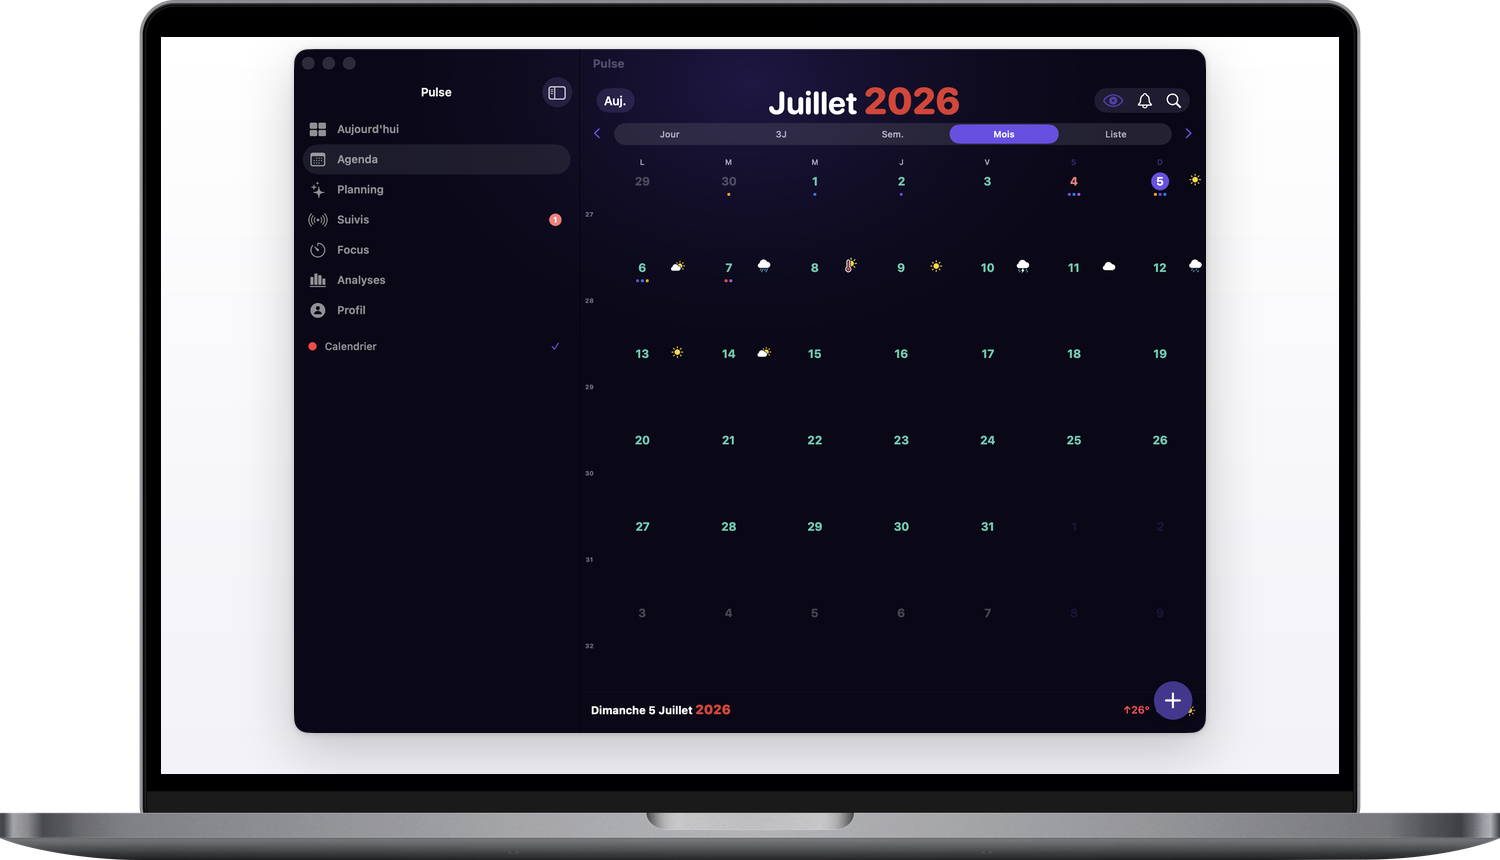
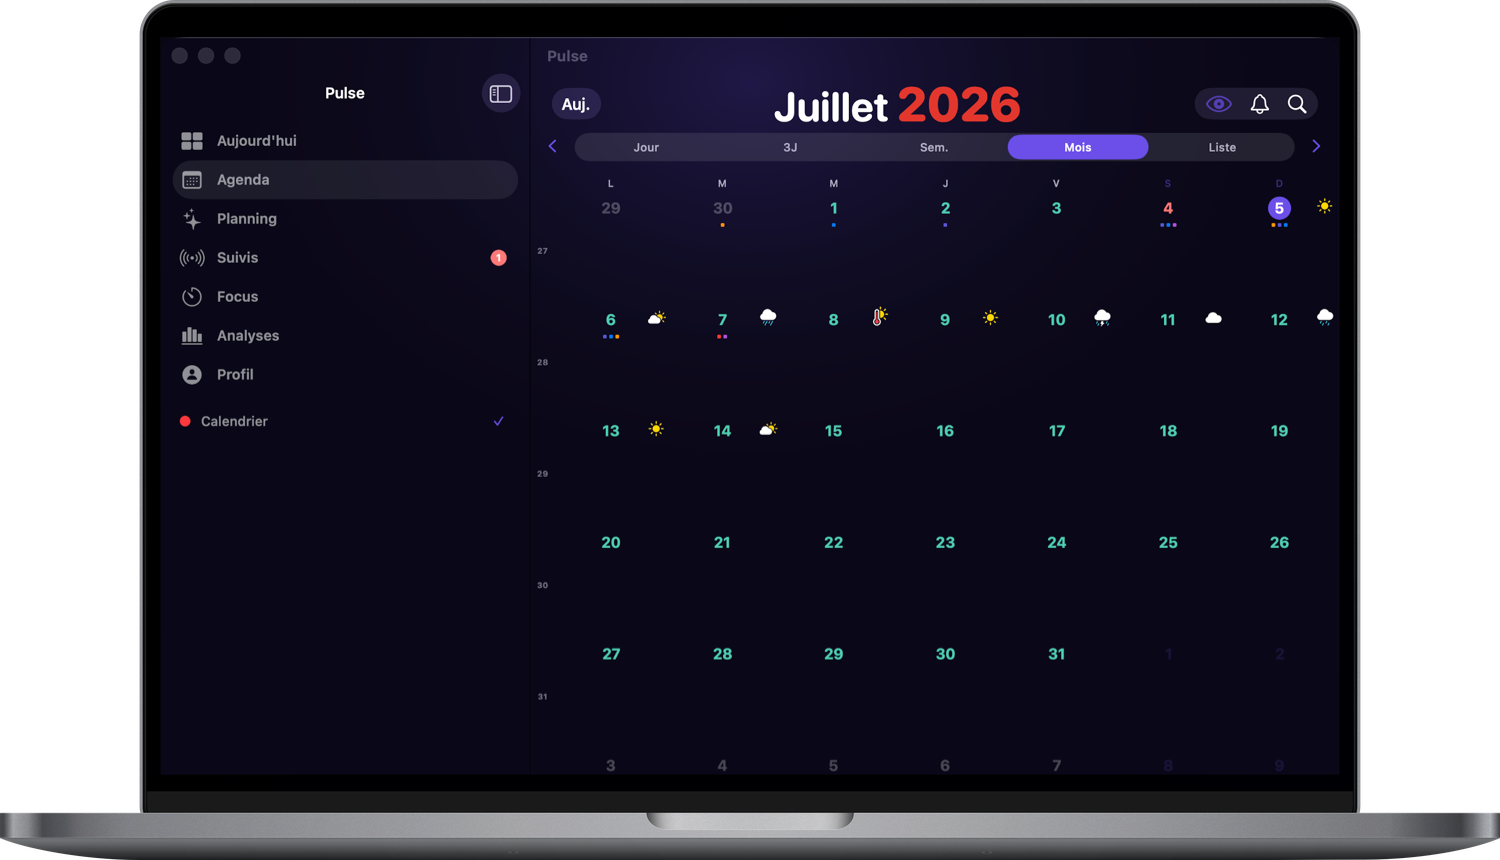
Site : iPhone Duo disponible, calendrier du Mac en plein écran
- Plateformes : iPhone Duo passe de « Dès le 23 octobre » à « Disponible ».
- MacBook : la capture du Mois remplit tout l'écran (plus de fond blanc autour de
  la fenêtre), dans les 9 jeux de langue. En PNG (ImageIO n'écrit pas le WebP) :
  screens-i18n.js bascule l'image du Mac sur .png (MACV 5), iPad et iPhone restent en WebP.

diff --git a/shared/screens-i18n.js b/shared/screens-i18n.js
@@ -8,7 +8,8 @@
 (function () {
   var LANGS = { fr:1, de:1, es:1, ja:1, ko:1, ar:1, ru:1, "zh-Hans":1, "en-US":1 }; // langues avec jeu localisé (en-US = captures °F, repli racine)
   var V = 11;  // version de cache des captures téléphone (WebP)
-  var DV = 4;  // version de cache des images device (macbook-device / ipad-device) — v4 : WebP transparents
+  var DV = 4;  // version de cache des images device (ipad-device / iphone-device) — v4 : WebP transparents
+  var MACV = 5; // macbook-device en PNG (21/11/2026) : le calendrier remplit tout l'écran, plus de fond blanc
   var DUOV = 1; // version de cache de duo-device (iPhone Duo déplié)
 
   function curLang() {
@@ -17,15 +18,16 @@
   }
 
   // swap générique : list = NodeList d'<img>, re = regex capturant le <nom>, ver = version cache
-  function swapList(list, re, ver, lang) {
+  function swapList(list, re, ver, lang, ext) {
+    ext = ext || "webp";
     for (var i = 0; i < list.length; i++) {
       var img = list[i];
       var m = (img.getAttribute("src") || "").match(re);
       if (!m) continue;
       var name = m[1];
-      var root = "/assets/screens/" + name + ".webp?v=" + ver;
+      var root = "/assets/screens/" + name + "." + ext + "?v=" + ver;
       var useLang = !!LANGS[lang] && img.getAttribute("data-scr-fb") !== "1";
-      var want = useLang ? ("/assets/screens/" + lang + "/" + name + ".webp?v=" + ver) : root;
+      var want = useLang ? ("/assets/screens/" + lang + "/" + name + "." + ext + "?v=" + ver) : root;
       if (useLang) {
         (function (im, rt) {                       // repli anglais une fois si la loc échoue
           im.onerror = function () {
@@ -42,8 +44,10 @@
     var lang = curLang();
     swapList(document.querySelectorAll("img.screen-photo"),
              /screens\/(?:[a-zA-Z-]+\/)?([a-z]+)\.webp/,V, lang);
-    swapList(document.querySelectorAll("img.dev-mac, img.dev-ipad, img.dev-iphone"),
-             /screens\/(?:[a-zA-Z-]+\/)?((?:macbook|ipad|iphone)-device)\.webp/,DV, lang);
+    swapList(document.querySelectorAll("img.dev-ipad, img.dev-iphone"),
+             /screens\/(?:[a-zA-Z-]+\/)?((?:ipad|iphone)-device)\.webp/,DV, lang);
+    swapList(document.querySelectorAll("img.dev-mac"),                 // MacBook : PNG plein écran
+             /screens\/(?:[a-zA-Z-]+\/)?(macbook-device)\.(?:webp|png)/, MACV, lang, "png");
     swapList(document.querySelectorAll("img.dev-duo"),            // iPhone Duo (10/2026)
              /screens\/(?:[a-zA-Z-]+\/)?(duo-device)\.webp/, DUOV, lang);
   }

diff --git a/index.html b/index.html
@@ -186,7 +186,7 @@
 <!-- ===== i18n : traduction runtime + sélecteur de langue (drapeaux) ===== -->
 <script defer src="shared/i18n-data.js?v=14"></script>
 <script defer src="shared/i18n.js?v=5"></script>
-<script defer src="shared/screens-i18n.js?v=8"></script>
+<script defer src="shared/screens-i18n.js?v=9"></script>
 </head>
 <body>
 
@@ -287,7 +287,7 @@
     <div class="device-glow"></div>
     <img class="dev-duo" src="assets/screens/duo-device.webp?v=1" alt="PulseCalendar sur iPhone Duo déplié, vue Semaine" loading="lazy" width="1200" height="860">
     <img class="dev-iphone" src="assets/screens/iphone-device.webp?v=4" alt="PulseCalendar sur iPhone, écran Suivi" loading="lazy" width="600" height="1246">
-    <img class="dev-mac" src="assets/screens/macbook-device.webp?v=4" alt="PulseCalendar sur MacBook Pro — vue Mois" loading="lazy" width="1500" height="860">
+    <img class="dev-mac" src="assets/screens/macbook-device.png?v=5" alt="PulseCalendar sur MacBook Pro — vue Mois" loading="lazy" width="1500" height="860">
     <img class="dev-ipad" src="assets/screens/ipad-device.webp?v=4" alt="PulseCalendar sur iPad Pro — Aujourd'hui" loading="lazy" width="760" height="992">
     <img class="dev-watch" src="assets/screens/watch-device.webp?v=2" alt="PulseCalendar sur Apple Watch Ultra — vue Mois" loading="lazy" width="600" height="960">
   </div>
@@ -304,7 +304,7 @@
       <div class="platform-icon" aria-hidden="true">
         <svg viewBox="0 0 24 24" fill="none" stroke="currentColor" stroke-width="1.5" stroke-linecap="round" stroke-linejoin="round"><rect x="2.5" y="5" width="19" height="14" rx="2.5"/><line x1="12" y1="6.5" x2="12" y2="17.5" stroke-dasharray="1.4 1.8"/></svg>
       </div>
-      <div class="platform-status status-now">● Dès le 23 octobre</div>
+      <div class="platform-status status-now">● Disponible</div>
       <h3>iPhone Duo</h3>
       <p>Déplié, toute ta semaine à l'écran</p>
     </div>
